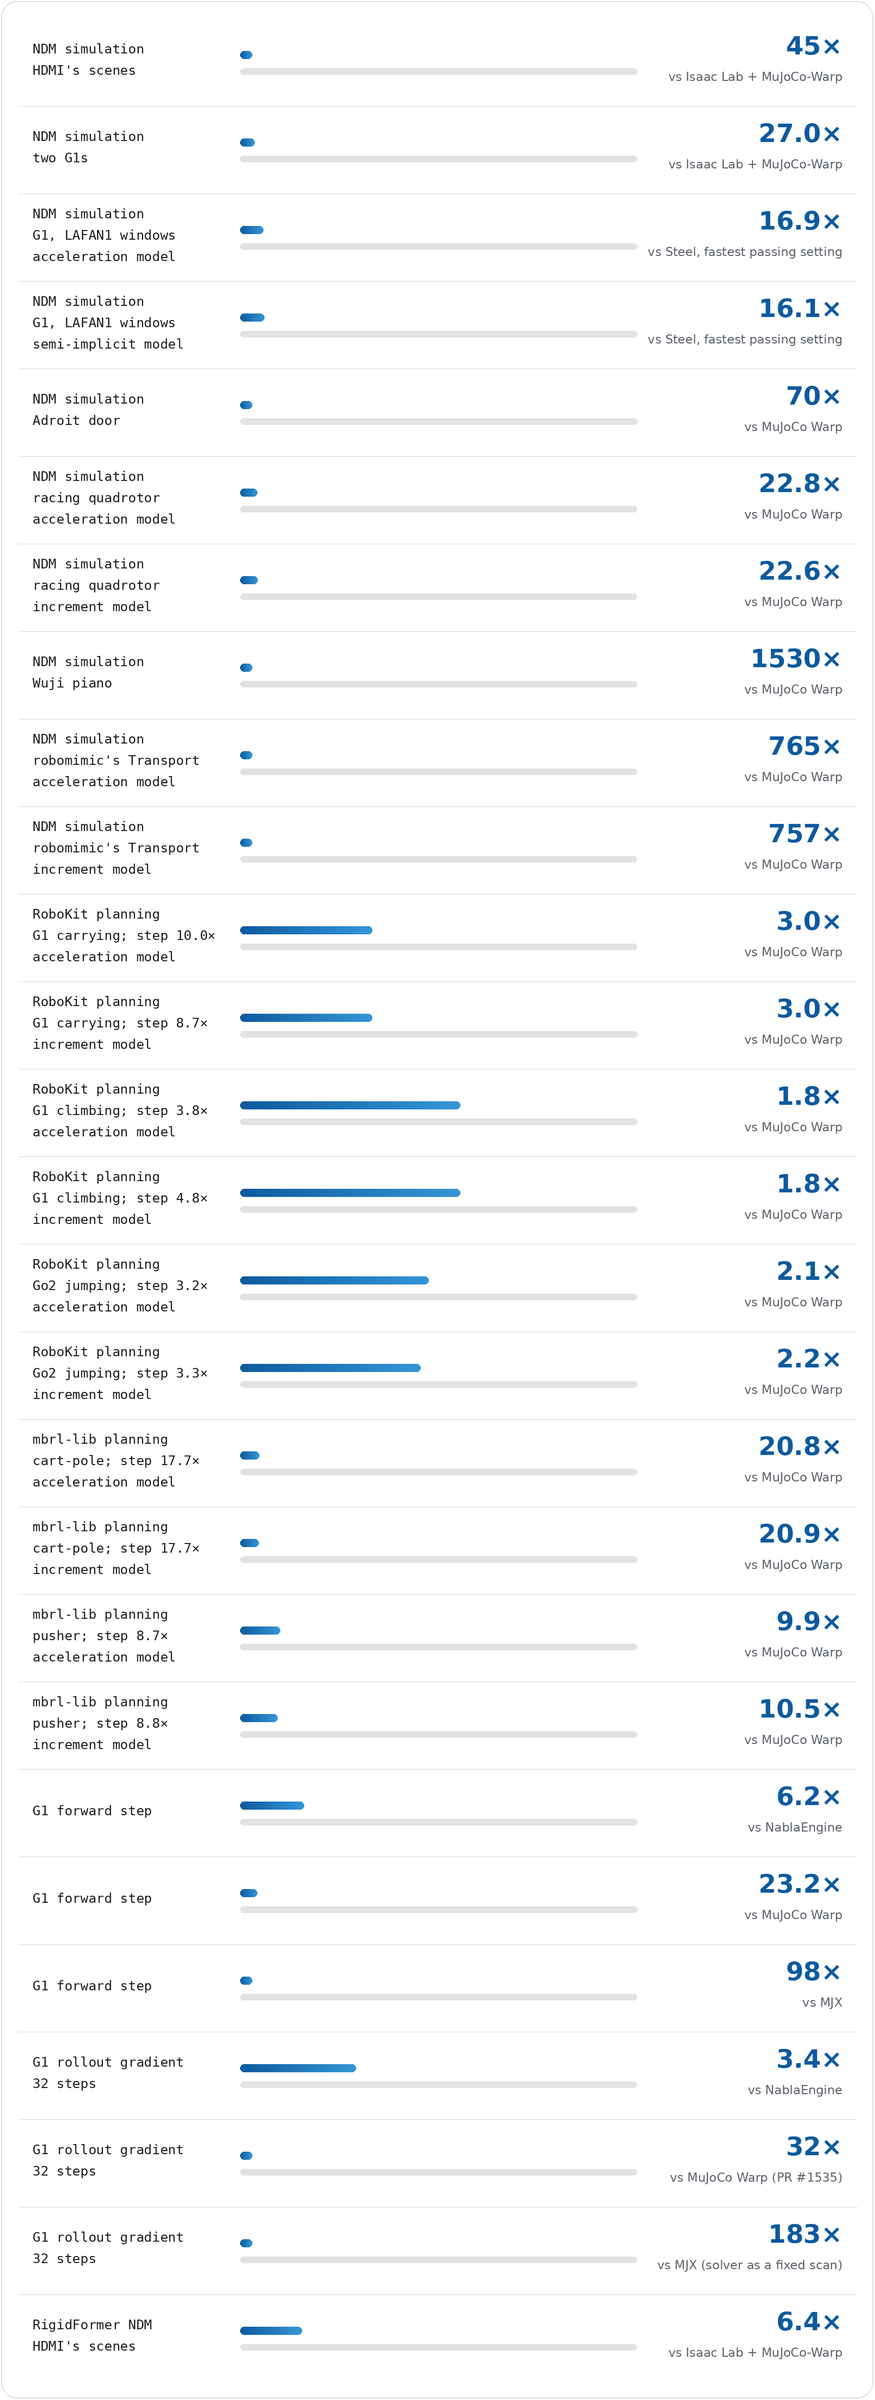
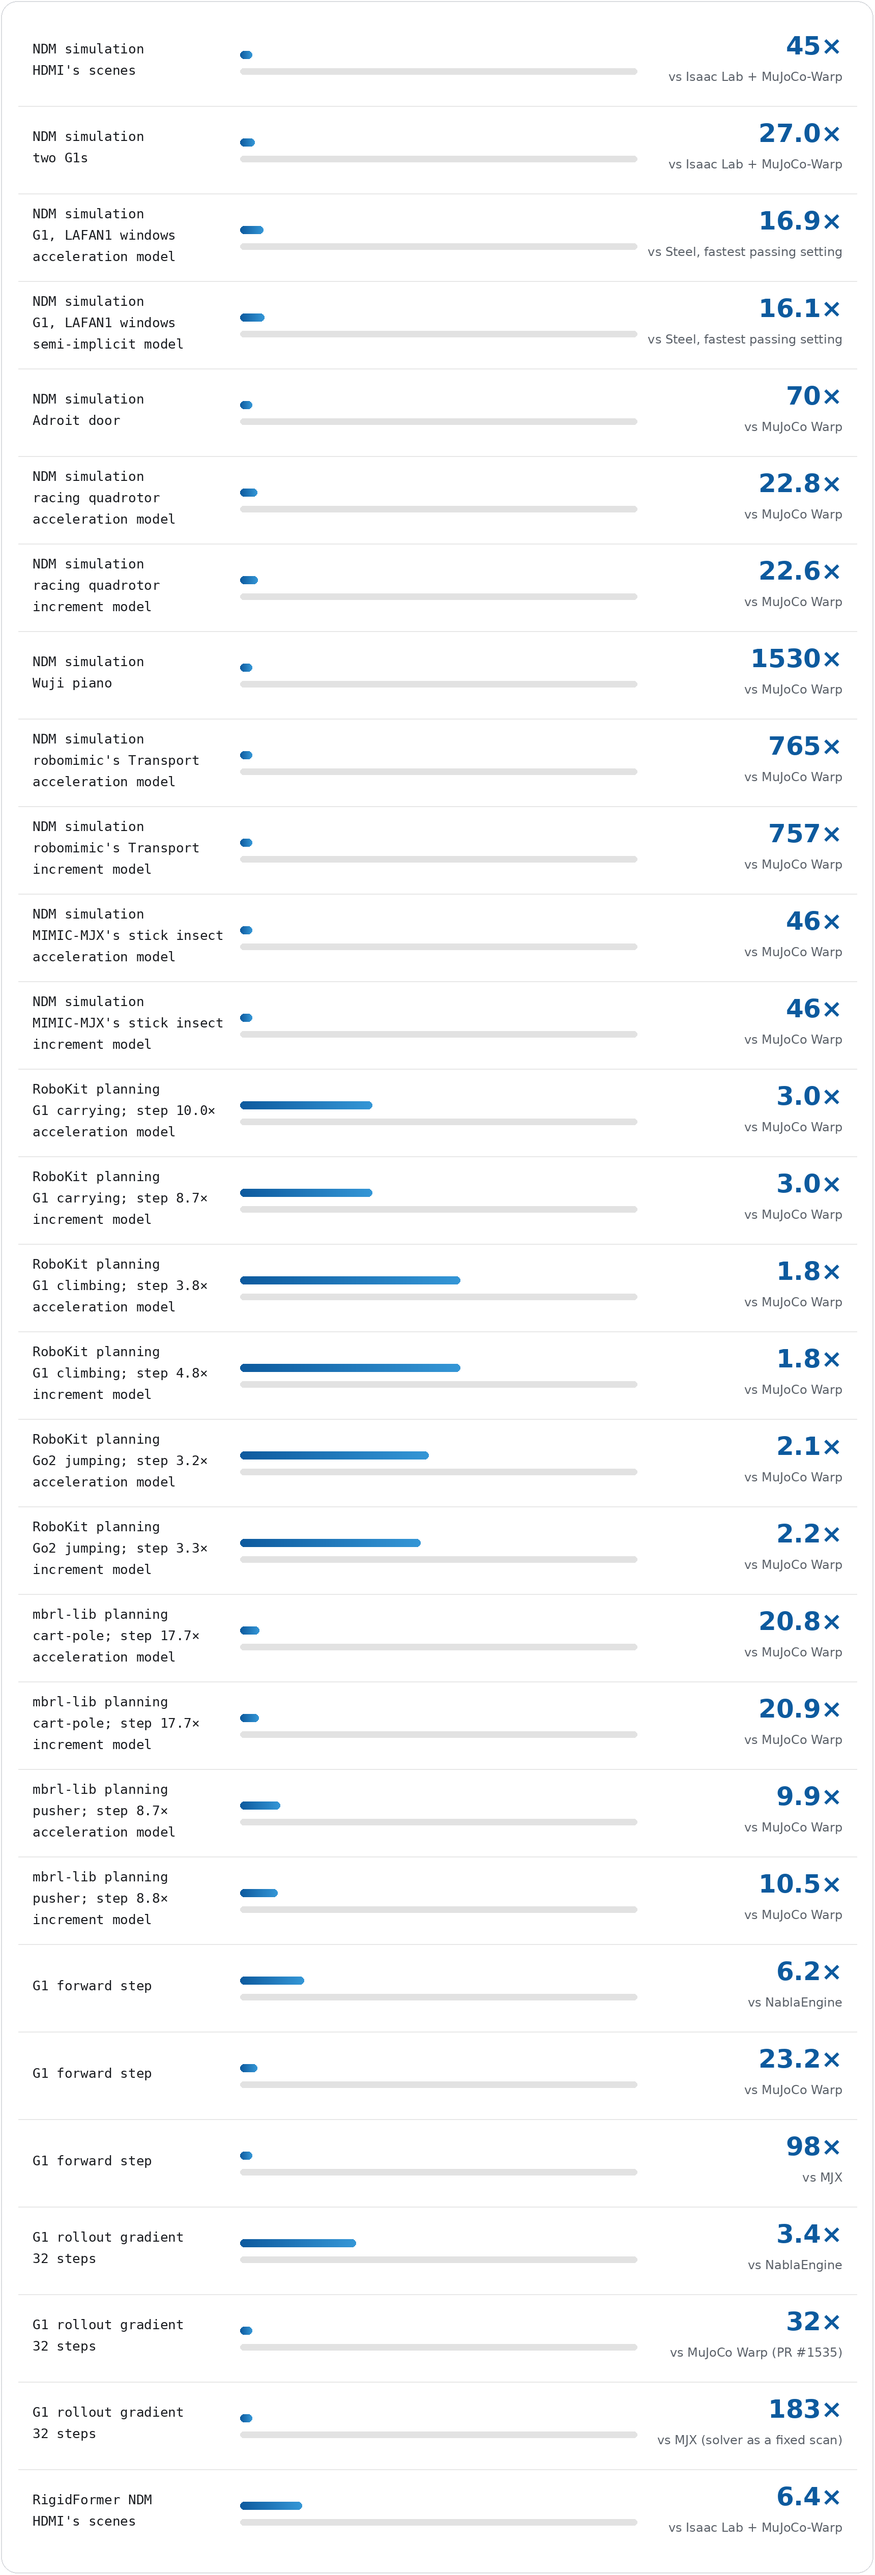
Animal tracking: the stick insect's world models as the simulator, one A100 40GB SXM4, not engineered: the configurations' seed-13 models as bf16 copies (compiled, one CUDA graph) run 15.46 M and 15.48 M world-steps per second at 4,096 worlds, 46.0x and 46.1x MuJoCo Warp's control step of the body (

diff --git a/tools/make_speedup_chart.py b/tools/make_speedup_chart.py
@@ -20,6 +20,8 @@ FONT_DIR = "/usr/share/fonts/truetype/dejavu/"
 # robomimic's Transport: the acceleration and the increment model of the configurations' seed-0 runs without the smoothness term as bf16
 # copies (compiled, one CUDA graph) against MuJoCo Warp's control step of the training's scene
 # (benchmarks/robomimic_manipulation_tracking/results.md),
+# MIMIC-MJX's stick insect: the acceleration and the increment model of the configurations' seed-13 runs as bf16 copies (compiled, one CUDA
+# graph) against MuJoCo Warp's control step of the training's body (benchmarks/mimic_mjx_animal_tracking/results.md),
 # RoboKit's, whose bars are its examples' whole planning time at the planner's own worlds on the acceleration and on the
 # increment model, the median over twenty plans (planner seeds 0-9, twice), with the simulation step's speedup in the second
 # line and the model in a third (benchmarks/robokit_ndm/results.md), and mbrl-lib's, whose bars
@@ -37,6 +39,8 @@ ROWS = [
     ("NDM simulation", "Wuji piano", 1530.5, "vs MuJoCo Warp"),
     ("NDM simulation", "robomimic's Transport\nacceleration model", 765.1, "vs MuJoCo Warp"),
     ("NDM simulation", "robomimic's Transport\nincrement model", 756.9, "vs MuJoCo Warp"),
+    ("NDM simulation", "MIMIC-MJX's stick insect\nacceleration model", 46.0, "vs MuJoCo Warp"),
+    ("NDM simulation", "MIMIC-MJX's stick insect\nincrement model", 46.1, "vs MuJoCo Warp"),
     ("RoboKit planning", "G1 carrying; step 10.0×\nacceleration model", 3.0, "vs MuJoCo Warp"),
     ("RoboKit planning", "G1 carrying; step 8.7×\nincrement model", 3.0, "vs MuJoCo Warp"),
     ("RoboKit planning", "G1 climbing; step 3.8×\nacceleration model", 1.8, "vs MuJoCo Warp"),

diff --git a/README.md b/README.md
@@ -90,6 +90,7 @@ MuJoCo model.
 | NDM simulation: the racing quadrotor ([details](benchmarks/quadrotor_racing_tracking/results_a100.md#the-world-model-as-the-simulator)) | world-steps per second at 4,096 worlds, the fused step in fp32 (TF32 products) with the network as one kernel: SuperTrack's acceleration model 74.3 M against MuJoCo Warp's 3.26 M (22.8x); SuperMimic's increment model 73.7 M against 3.27 M (22.6x); with the network compiled layer by layer 19.6x / 19.0x. The network is 85 % of the step | one A100 40GB SXM4 |
 | NDM simulation: the Wuji piano ([details](benchmarks/wuji_piano/results_a100.md#the-world-model-as-the-simulator)) | world-steps per second at 4,096 worlds: the horizon-3 SuperTrack run's `PianoDynamics` with its networks in bf16 (compiled, one CUDA graph), 46.24 M against MuJoCo Warp's 30,213 for a control step of the full scene (1,530x; the four seed-0 models, both algorithms at both horizons, 1,523-1,530x). The model steps the policy's 192-number observed state; its due-key error is 0.15 / 0.19 / 0.26 of a key's travel at 1 / 3 / 10 steps, the horizon-3 SuperMimic model's 0.16 / 0.19 / 0.32 | one A100 40GB SXM4 |
 | NDM simulation: robomimic's Transport ([details](benchmarks/robomimic_manipulation_tracking/results.md#the-world-model-as-the-simulator)) | world-steps per second at 4,096 worlds, not engineered: the world models of the configurations' seed-0 runs without the smoothness term (the same network) as bf16 copies (compiled, one CUDA graph), SuperTrack's acceleration model 11.63 M against MuJoCo Warp's 15,196 for a control step of the training's scene (765x), SuperMimic's increment model 11.06 M against 14,614 (757x); Lift 256x / 256x and Square 725x / 736x | one A100 40GB SXM4 |
+| NDM simulation: MIMIC-MJX's stick insect ([details](benchmarks/mimic_mjx_animal_tracking/results.md#the-world-model-as-the-simulator)) | world-steps per second at 4,096 worlds, not engineered: the world models of the configurations' seed-13 runs as bf16 copies (compiled, one CUDA graph), SuperTrack's acceleration model 15.46 M against MuJoCo Warp's 336,357 for a control step of the training's body (46.0x), SuperMimic's increment model 15.48 M against 336,223 (46.1x) | one A100 40GB SXM4 |
 | the G1's forward step and the gradient of a 32-step rollout ([details](benchmarks/ndm_speed/results.md)) | SuperTrack's MLP world model against NablaEngine, MuJoCo Warp with the adjoint of its pull request #1535 and MJX, each in its faster setting | one A100 40GB |
 | RoboKit planning ([details](benchmarks/robokit_ndm/results.md)) | the example's whole planning time at the planner's own worlds on the acceleration and on the increment model, the median over twenty plans (planner seeds 0-9, twice; the acceleration model's G1 box carrying over ten, seeds 0-9 once); the simulation step's speedup beside the task | one A100 40GB SXM4 |
 | mbrl-lib planning ([details](benchmarks/mbrl_lib/results.md)) | the planner's time per executed step on the acceleration and on the increment model, timed in one session, the median over three planner seeds; the step's speedup at 4,096 worlds beside the task | one A100 80GB SXM4 |
@@ -151,6 +152,7 @@ re-verified on an A100. Manipulation: Lift / Square / Transport; the target is t
 | **[NDM as the simulator](#quadrotor-trajectory-tracking)**, the racing quadrotor, 4,096 worlds on an A100 40GB SXM4 | ⏱ throughput, not engineered | SuperTrack's acceleration model and SuperMimic's increment model, MLPs, the fused step in fp32, the network as one kernel | **74.3 M** and **73.7 M world-steps/s**, 22.8x and 22.6x MuJoCo Warp's 3.26 M / 3.27 M; 34.2x / 34.1x at 1,024 worlds, 11.5x at 65,536 ([results](benchmarks/quadrotor_racing_tracking/results_a100.md#the-world-model-as-the-simulator)) |
 | **[NDM as the simulator](#wuji-hand-piano-playing)**, the Wuji piano, 4,096 worlds on an A100 40GB SXM4 | ⏱ throughput, not engineered | the task's `PianoDynamics`, its networks in bf16 (both algorithms' models within 1 %) | **46.2 M world-steps/s**, 1,530x MuJoCo Warp's 30,213 for a control step of the full scene; the model steps only the policy's 192-number observed state, a due key's depth off by 0.15 / 0.19 / 0.26 of its travel at 1 / 3 / 10 steps (SuperTrack's horizon-3 model; SuperMimic's 0.16 / 0.19 / 0.32; the lowest of the four seed-0 models, SuperMimic's horizon-8 one, 0.09 / 0.10 / 0.13) ([results](benchmarks/wuji_piano/results_a100.md#the-world-model-as-the-simulator)) |
 | **[NDM as the simulator](#manipulation-demonstration-tracking)**, robomimic's Transport, 4,096 worlds on an A100 40GB SXM4 | ⏱ throughput, not engineered | SuperTrack's acceleration model and SuperMimic's increment model, MLPs as bf16 copies | **11.63 M** and **11.06 M world-steps/s**, 765x and 757x MuJoCo Warp's 15,196 and 14,614 for a control step of the scene (25 physics steps); Lift 256x / 256x, Square 725x / 736x ([results](benchmarks/robomimic_manipulation_tracking/results.md#the-world-model-as-the-simulator)) |
+| **[NDM as the simulator](#animal-motion-tracking)**, MIMIC-MJX's stick insect, 4,096 worlds on an A100 40GB SXM4 | ⏱ throughput, not engineered | SuperTrack's acceleration model and SuperMimic's increment model, MLPs as bf16 copies | **15.46 M** and **15.48 M world-steps/s**, 46.0x and 46.1x MuJoCo Warp's 336,357 and 336,223 for a control step of the body (5 physics steps) ([results](benchmarks/mimic_mjx_animal_tracking/results.md#the-world-model-as-the-simulator)) |
 | **[NDM as the simulator](#ndms-against-steel-the-g1)**, the G1 on LAFAN1's replay windows, 4,096 worlds on an A100 40GB SXM4 | 🚀 fastest | SuperTrack's acceleration model and SuperMimic's semi-implicit model (`lafan1-supertrack-accurate`, `lafan1-supermimic-accurate`), MLPs as bf16 copies with the fused step | **14.80 M** and **14.06 M control steps/s**, 16.9x and 16.1x Steel's fastest setting that passes the accuracy criteria (0.875 M), 42.4x and 40.2x MuJoCo Warp in Isaac Lab (0.349 M); body error after 32 steps 19.6 and 22.8 mm, Steel's 30.2 mm; on four GPUs 89.2 M and 87.1 M, Steel's 4.13 M ([results](benchmarks/steel/results.md)) |
 | **[NDM as the simulator](#ndms-as-simulators-hdmis-scenes)**, HDMI's move_suitcase, 4096 worlds on an H100 | ⏱ throughput, not engineered | the MLP world model (acceleration parameterization) as a bf16 copy | **16.28 M env-steps/s**, 45.9x the physics engine's 0.35 M; RigidFormer 2.30 M, 6.5x; the increment parameterization was not timed ([results](benchmarks/ndm_speed/results.md)) |
 

diff --git a/benchmarks/mimic_mjx_animal_tracking/results.md b/benchmarks/mimic_mjx_animal_tracking/results.md
@@ -105,6 +105,30 @@ No episode on the training clips ended in any of these runs. Without the term, e
 3.03, SuperMimic 1.60 / 1.54 / 1.61 times the reference's; its share above 27 Hz: SuperTrack 4.27 / 4.43 / 4.40, SuperMimic
 2.12 / 1.87 / 1.91 times (seeds 13 / 14 / 15). The reference's share above 27 Hz is 4.7 %.
 
+## The world model as the simulator
+
+One step of the world model, one network evaluation, stands in for the 5 physics steps of the 10 ms control step it
+predicts, each with its collision detection and its constraint solve. `ndm_gym.wmbench.speed_animal` times both on one A100
+40GB SXM4: MuJoCo-Warp's control step of the training's body (one CUDA graph) and the world model of each configuration's
+seed-13 run (its stop checkpoint) in fp32 (its step one CUDA graph) and as a bf16 inference copy (compiled, one CUDA graph).
+Every world starts at a frame of the run's clips and holds that frame's controls of action 0. World-steps per second, the
+median of 5 runs of 200 steps after a warm-up pass; not engineered (no per-phase table). Other jobs ran on the machine's other
+GPUs, the same ones before and after each pass; there the card read 1,095 MHz (its SM clock at rest; 1,410 at most) and
+1,215 MHz (memory, its maximum), 38-48 °C and 60-64 W.
+
+| world model | worlds | MuJoCo-Warp | fp32 | bf16 | bf16 against MuJoCo-Warp |
+|---|---|---|---|---|---|
+| SuperTrack's acceleration model | 1,024 | 173,936 | 1.14 M | 7.14 M | 41.1x |
+| | 4,096 | 336,357 | 2.14 M | 15.46 M | 46.0x |
+| | 16,384 | 429,297 | 2.93 M | 19.18 M | 44.7x |
+| SuperMimic's increment model | 1,024 | 173,963 | 1.13 M | 7.03 M | 40.4x |
+| | 4,096 | 336,223 | 2.15 M | 15.48 M | 46.1x |
+| | 16,384 | 429,454 | 2.90 M | 19.77 M | 46.0x |
+
+At 4,096 worlds MuJoCo-Warp takes 12.18 ms a control step and the bf16 copies 0.265 ms. The bodies' open-loop error of the
+world models, 256 worlds from frames of the clips under the policy's controls in the simulator: 0.136 / 0.202 / 0.363 mm after
+1 / 8 / 16 control steps for SuperTrack's acceleration model, 0.050 / 0.169 / 0.327 mm for SuperMimic's increment model.
+
 ## Configurations
 
 Each algorithm's configuration came from the task's presets (the hand task's fast configurations, with `--ref_qvel
